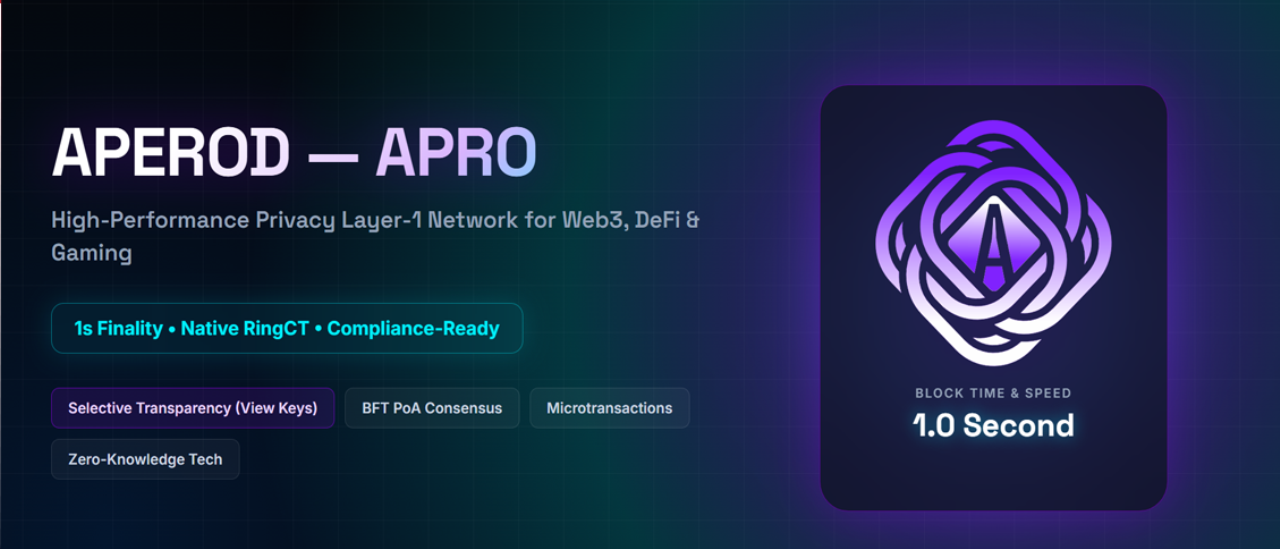
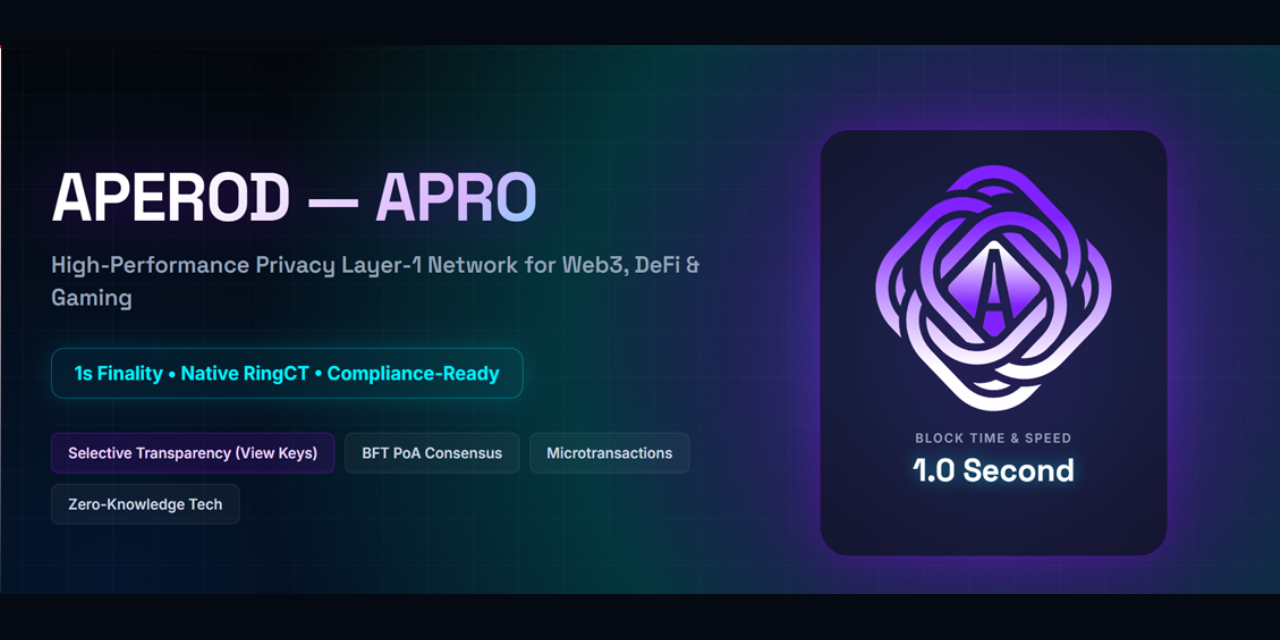
docs: refresh official links and social preview
- update verified project contact URLs
- use an opaque 1280x640 repository preview image

diff --git a/deploy/README-public.md b/deploy/README-public.md
@@ -1,20 +1,33 @@
 <div align="center">
 
+<img src="https://raw.githubusercontent.com/aperod-network/aperod-node/main/.github/images/og.png" alt="Aperod APRO — privacy-first Layer-1 network" width="1280" />
+
 # APEROD · APRO
 
 **Privacy-preserving blockchain built for the real world.**
 
-RingCT transaction privacy &nbsp;·&nbsp; CLSAG v5 activation-ready &nbsp;·&nbsp; Dynamic base-fee burn &nbsp;·&nbsp; Permissionless BFT-PoS
+RingCT transaction privacy &nbsp;·&nbsp; CLSAG v5 active &nbsp;·&nbsp; Dynamic base-fee burn &nbsp;·&nbsp; Permissionless BFT-PoS
 
 [![Go](https://img.shields.io/badge/Go-1.25-00ADD8?logo=go&logoColor=white)](https://go.dev/doc/go1.25)
 [![License](https://img.shields.io/badge/License-Apache%202.0-blue.svg)](LICENSE)
 [![Network](https://img.shields.io/badge/Network-Mainnet-brightgreen)](https://aperod.com)
-[![Explorer](https://img.shields.io/badge/Explorer-aperod.com-informational)](https://aperod.com/explorer/)
-[![Telegram](https://img.shields.io/badge/Wallet-@aperod__bot-2CA5E0?logo=telegram&logoColor=white)](https://t.me/aperod_bot)
+[![Explorer](https://img.shields.io/badge/Explorer-explorer.aperod.com-informational)](https://explorer.aperod.com)
+[![Telegram](https://img.shields.io/badge/Support-@sup__apro__bot-2CA5E0?logo=telegram&logoColor=white)](https://t.me/sup_apro_bot)
 
-**[⬇ Install Node](#-install-a-full-node) &nbsp;·&nbsp; [🛡 Become Validator](#-become-a-validator) &nbsp;·&nbsp; [🌐 Explorer](https://aperod.com/explorer/) &nbsp;·&nbsp; [💬 Telegram Wallet](https://t.me/aperod_bot)**
+**[⬇ Install Node](#-install-a-full-node) &nbsp;·&nbsp; [🛡 Become Validator](#-become-a-validator) &nbsp;·&nbsp; [🌐 Explorer](https://explorer.aperod.com) &nbsp;·&nbsp; [💬 Telegram Bot](https://t.me/sup_apro_bot)**
 
 </div>
+
+---
+
+## Official Links
+
+- 🌐 **Website:** [aperod.com](https://aperod.com)
+- 🔍 **Explorer:** [explorer.aperod.com](https://explorer.aperod.com)
+- 📊 **Live Status:** [status.aperod.com](https://status.aperod.com)
+- 🔐 **Security Log:** [explorer.aperod.com/security-reports](https://explorer.aperod.com/security-reports)
+- ⚙ **Source Code:** [github.com/aperod-network/aperod-node](https://github.com/aperod-network/aperod-node)
+- 💬 **Telegram Bot:** [t.me/sup_apro_bot](https://t.me/sup_apro_bot)
 
 ---
 
@@ -40,7 +53,7 @@ RingCT transaction privacy &nbsp;·&nbsp; CLSAG v5 activation-ready &nbsp;·&nbs
 
 | Feature | Detail |
 |---------|--------|
-| **Privacy** | RingCT with 16-member rings, Pedersen commitments, Bulletproof range proofs, and stealth addresses. CLSAG v5 is implemented and height-gated for coordinated activation |
+| **Privacy** | RingCT with 16-member rings, Pedersen commitments, Bulletproof range proofs, and stealth addresses. CLSAG v5 is active from coordinated block 1,769,500 |
 | **Stealth addresses** | Every payment generates a one-time address; receiver identity is never revealed |
 | **Telegram wallet** | Full wallet inside Telegram — create, send, receive, and stake APRO without any app download |
 | **Dynamic base-fee burn** | 100% of the protocol base fee is burned; any priority tip remains validator compensation |
@@ -62,9 +75,8 @@ The current public source contains the complete **RingCT + CLSAG v5** transactio
 - replay compatibility for historical v1–v4 transactions.
 
 CLSAG is a separate transaction version controlled by `ring_ct_clsag_activation_height`.
-The value `0` keeps v5 disabled. A non-zero height requires a coordinated validator,
-wallet, storage, and API rollout. The repository therefore distinguishes **implemented**
-from **activated on the live network**.
+The value `0` keeps v5 disabled. The live network activated v5 at coordinated block
+1,769,500 after the validator, wallet, storage, and API rollout completed.
 
 Transaction-layer privacy does not hide IP addresses, timing metadata, compromised
 wallets, exchange records, or other network/application-layer information.
@@ -305,7 +317,7 @@ aperod-node/
 |-----------|-------------------|
 | Elliptic curve | Ed25519 — `filippo.io/edwards25519` |
 | Hash function | SHA3-256 / SHA3-512 — `golang.org/x/crypto` |
-| Ring signatures | CLSAG v5, ring size 16 (height-gated); historical MLSAG formats remain replay-compatible |
+| Ring signatures | CLSAG v5, ring size 16 (active since block 1,769,500); historical MLSAG formats remain replay-compatible |
 | Commitments | Pedersen over Ed25519 |
 | Range proofs | Bulletproofs (IPA variant) |
 | HD key derivation | BIP-39 mnemonics + SLIP-0010 + Ed25519 |
@@ -500,8 +512,11 @@ Licensed under the **Apache License, Version 2.0** — see [LICENSE](LICENSE) fo
 
 <div align="center">
   <sub>
-    <a href="https://aperod.com">aperod.com</a> &nbsp;·&nbsp;
-    <a href="https://t.me/aperod_bot">Telegram Wallet</a> &nbsp;·&nbsp;
-    <a href="https://aperod.com/explorer/">Block Explorer</a>
+    <a href="https://aperod.com">Website</a> &nbsp;·&nbsp;
+    <a href="https://explorer.aperod.com">Explorer</a> &nbsp;·&nbsp;
+    <a href="https://status.aperod.com">Live Status</a> &nbsp;·&nbsp;
+    <a href="https://explorer.aperod.com/security-reports">Security Log</a> &nbsp;·&nbsp;
+    <a href="https://github.com/aperod-network/aperod-node">Source Code</a> &nbsp;·&nbsp;
+    <a href="https://t.me/sup_apro_bot">Telegram Bot</a>
   </sub>
 </div>

diff --git a/README.md b/README.md
@@ -1,5 +1,7 @@
 <div align="center">
 
+<img src="https://raw.githubusercontent.com/aperod-network/aperod-node/main/.github/images/og.png" alt="Aperod APRO — privacy-first Layer-1 network" width="1280" />
+
 # APEROD · APRO
 
 **Privacy-preserving blockchain built for the real world.**
@@ -9,12 +11,23 @@ RingCT transaction privacy &nbsp;·&nbsp; CLSAG v5 active &nbsp;·&nbsp; Dynamic
 [![Go](https://img.shields.io/badge/Go-1.25-00ADD8?logo=go&logoColor=white)](https://go.dev/doc/go1.25)
 [![License](https://img.shields.io/badge/License-Apache%202.0-blue.svg)](LICENSE)
 [![Network](https://img.shields.io/badge/Network-Mainnet-brightgreen)](https://aperod.com)
-[![Explorer](https://img.shields.io/badge/Explorer-aperod.com-informational)](https://aperod.com/explorer/)
-[![Telegram](https://img.shields.io/badge/Wallet-@aperod__bot-2CA5E0?logo=telegram&logoColor=white)](https://t.me/aperod_bot)
+[![Explorer](https://img.shields.io/badge/Explorer-explorer.aperod.com-informational)](https://explorer.aperod.com)
+[![Telegram](https://img.shields.io/badge/Support-@sup__apro__bot-2CA5E0?logo=telegram&logoColor=white)](https://t.me/sup_apro_bot)
 
-**[⬇ Install Node](#-install-a-full-node) &nbsp;·&nbsp; [🛡 Become Validator](#-become-a-validator) &nbsp;·&nbsp; [🌐 Explorer](https://aperod.com/explorer/) &nbsp;·&nbsp; [💬 Telegram Wallet](https://t.me/aperod_bot)**
+**[⬇ Install Node](#-install-a-full-node) &nbsp;·&nbsp; [🛡 Become Validator](#-become-a-validator) &nbsp;·&nbsp; [🌐 Explorer](https://explorer.aperod.com) &nbsp;·&nbsp; [💬 Telegram Bot](https://t.me/sup_apro_bot)**
 
 </div>
+
+---
+
+## Official Links
+
+- 🌐 **Website:** [aperod.com](https://aperod.com)
+- 🔍 **Explorer:** [explorer.aperod.com](https://explorer.aperod.com)
+- 📊 **Live Status:** [status.aperod.com](https://status.aperod.com)
+- 🔐 **Security Log:** [explorer.aperod.com/security-reports](https://explorer.aperod.com/security-reports)
+- ⚙ **Source Code:** [github.com/aperod-network/aperod-node](https://github.com/aperod-network/aperod-node)
+- 💬 **Telegram Bot:** [t.me/sup_apro_bot](https://t.me/sup_apro_bot)
 
 ---
 
@@ -499,8 +512,11 @@ Licensed under the **Apache License, Version 2.0** — see [LICENSE](LICENSE) fo
 
 <div align="center">
   <sub>
-    <a href="https://aperod.com">aperod.com</a> &nbsp;·&nbsp;
-    <a href="https://t.me/aperod_bot">Telegram Wallet</a> &nbsp;·&nbsp;
-    <a href="https://aperod.com/explorer/">Block Explorer</a>
+    <a href="https://aperod.com">Website</a> &nbsp;·&nbsp;
+    <a href="https://explorer.aperod.com">Explorer</a> &nbsp;·&nbsp;
+    <a href="https://status.aperod.com">Live Status</a> &nbsp;·&nbsp;
+    <a href="https://explorer.aperod.com/security-reports">Security Log</a> &nbsp;·&nbsp;
+    <a href="https://github.com/aperod-network/aperod-node">Source Code</a> &nbsp;·&nbsp;
+    <a href="https://t.me/sup_apro_bot">Telegram Bot</a>
   </sub>
 </div>
